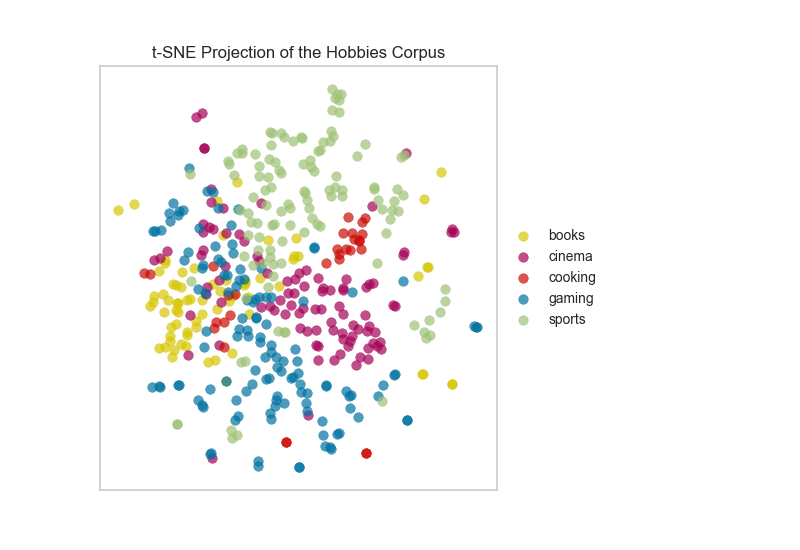
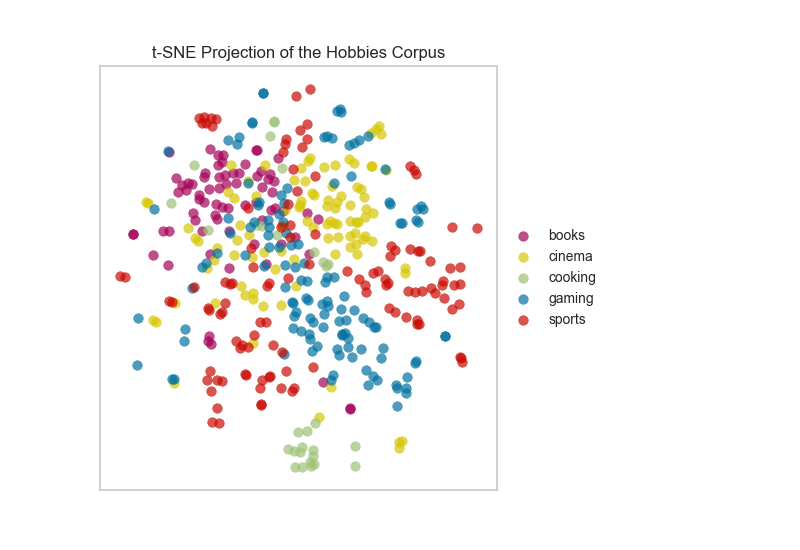
figures updates

diff --git a/poster/gallery.py b/poster/gallery.py
@@ -19,12 +19,14 @@ Script to generate figures for the PyCon 2017 Yellowbrick Poster.
 ##########################################################################
 
 import os
+import sys
 import warnings
 warnings.filterwarnings("ignore")
 
+sys.path.append("/Users/benjamin/Repos/ddl/yellowbrick/")
+
 import numpy as np
 import pandas as pd
-import yellowbrick as yb
 import matplotlib.pyplot as plt
 
 from functools import partial
@@ -263,7 +265,7 @@ def perror(ax):
 
 
 def classification_report(ax):
-    from sklearn.naive_bayes import GaussianNB
+    from sklearn.naive_bayes import MultinomialNB
     from yellowbrick.classifier import ClassificationReport
 
     features = [
@@ -287,7 +289,7 @@ def classification_report(ax):
         ('encoder', MultiColumnEncoder()),
         ('onehot', OneHotEncoder()),
         ('dense', ToDense()),
-        ('nbayes', GaussianNB()),
+        ('nbayes', MultinomialNB()),
     ])
     visualizer = ClassificationReport(estimator, ax=ax)
     visualizer.fit(X_train, y_train)
@@ -296,7 +298,8 @@ def classification_report(ax):
 
 
 def confusion_matrix(ax):
-    from sklearn.linear_model import LogisticRegression
+    # from sklearn.linear_model import LogisticRegression
+    from sklearn.ensemble import RandomForestClassifier
     from yellowbrick.classifier import ConfusionMatrix
 
     features = [
@@ -320,7 +323,7 @@ def confusion_matrix(ax):
         ('encoder', MultiColumnEncoder()),
         ('onehot', OneHotEncoder()),
         ('dense', ToDense()),
-        ('maxent', LogisticRegression()),
+        ('maxent', RandomForestClassifier()),
     ])
     visualizer = ConfusionMatrix(estimator, ax=ax)
     visualizer.fit(X_train, y_train)
@@ -330,7 +333,7 @@ def confusion_matrix(ax):
 
 def rocauc(ax):
     from yellowbrick.classifier import ROCAUC
-    from sklearn.ensemble import RandomForestClassifier
+    from sklearn.linear_model import LogisticRegression
 
     # Specify the features of interest and the classes of the target
     features = ["temperature", "relative humidity", "light", "C02", "humidity"]
@@ -341,7 +344,7 @@ def rocauc(ax):
     splits = load_data('occupancy', cols=features, target=target, tts=True)
     X_train, X_test, y_train, y_test = splits
 
-    estimator = RandomForestClassifier()
+    estimator = LogisticRegression()
     visualizer = ROCAUC(estimator, ax=ax)
     visualizer.fit(X_train, y_train)
     visualizer.score(X_test, y_test)
@@ -369,7 +372,7 @@ def class_balance(ax):
     return visualizer
 
 
-def elbow(ax):
+def elbow(ax, metric="distortion"):
     from sklearn.cluster import KMeans
     from yellowbrick.cluster import KElbowVisualizer
     from sklearn.datasets import make_blobs
@@ -383,8 +386,8 @@ def elbow(ax):
 
     X = make_blobs()
     X, y = make_blobs(centers=8)
-    visualizer = KElbowVisualizer(KMeans(), ax=ax, k=(2,12))
-    visualizer.title = "Silhouette Ranked Elbow Curve for K-Means on 8 Blob Dataset"
+    visualizer = KElbowVisualizer(KMeans(), ax=ax, k=(2,16), metric=metric)
+    # visualizer.title = "Silhouette Ranked Elbow Curve for K-Means on 8 Blob Dataset"
     visualizer.fit(X)
     return visualizer
 
@@ -449,17 +452,21 @@ def freqdist(ax, stopwords=None):
     return visualizer
 
 
-def tsne(ax):
+def tsne(ax, classes=True):
     from sklearn.feature_extraction.text import TfidfVectorizer
     from yellowbrick.text import TSNEVisualizer
 
     X, y = load_data("hobbies", text=True)
+    if not classes:
+        y = None
 
     freq = TfidfVectorizer(input='filename', stop_words='english')
     X = freq.fit_transform(X)
 
     visualizer = TSNEVisualizer(ax=ax)
     visualizer.title = "t-SNE Projection of the Hobbies Corpus"
+    if not classes:
+        visualizer.title = "Unlabeled " + visualizer.title
     visualizer.fit(X, y)
     return visualizer
 
@@ -496,20 +503,22 @@ def postag(ax, text="nursery"):
 FIGURES = {
     # "occupancy_radviz": radviz,
     # "occupancy_parallel_coordinates": pcoords,
-    "credit_default_covariance_rank2d": partial(rank2d, algorithm='covariance'),
-    "credit_default_pearson_rank2d": partial(rank2d, algorithm='pearson'),
+    # "credit_default_covariance_rank2d": partial(rank2d, algorithm='covariance'),
+    # "credit_default_pearson_rank2d": partial(rank2d, algorithm='pearson'),
     # "concrete_ridgecv_residuals": residuals,
     # "concrete_lassocv_prediction_error": perror,
-    # "game_nbayes_classification_report": classification_report,
-    # "game_maxent_confusion_matrix": confusion_matrix,
-    # "occupancy_random_forest_rocauc": rocauc,
-    # "occupancy_random_forest_class_balance": class_balance,
-    # "eight_blobs_kmeans_elbow_curve": elbow,
-    # "eight_blobs_kmenas_silhouette": silhouette,
+    "game_nbayes_classification_report": classification_report,
+    "game_random_forest_confusion_matrix": confusion_matrix,
+    "occupancy_maxent_rocauc": rocauc,
+    "occupancy_class_balance": class_balance,
+    # "eight_blobs_kmeans_distortion_elbow_curve": partial(elbow, metric="distortion"),
+    # "eight_blobs_kmeans_calinski_harabaz_elbow_curve": partial(elbow, metric="calinski_harabaz"),
+    # "eight_blobs_kmeans_silhouette": silhouette,
     # "energy_ridgecv_alphas": alphas,
-    "hobbies_freq_dist": partial(freqdist, stopwords='english'),
-    "hobbies_freq_dist_stopwords": partial(freqdist, stopwords=None),
+    # "hobbies_freq_dist": partial(freqdist, stopwords='english'),
+    # "hobbies_freq_dist_stopwords": partial(freqdist, stopwords=None),
     # "hobbies_tnse": tsne,
+    # "unlabeled_hobbies_tsne": partial(tsne, classes=False),
     # "nursery_nltk_pos_tag": partial(postag, text="nursery"),
     # "algebra_nltk_pos_tag": partial(postag, text="algebra"),
     # "recipe_nltk_pos_tag": partial(postag, text="recipe"),
